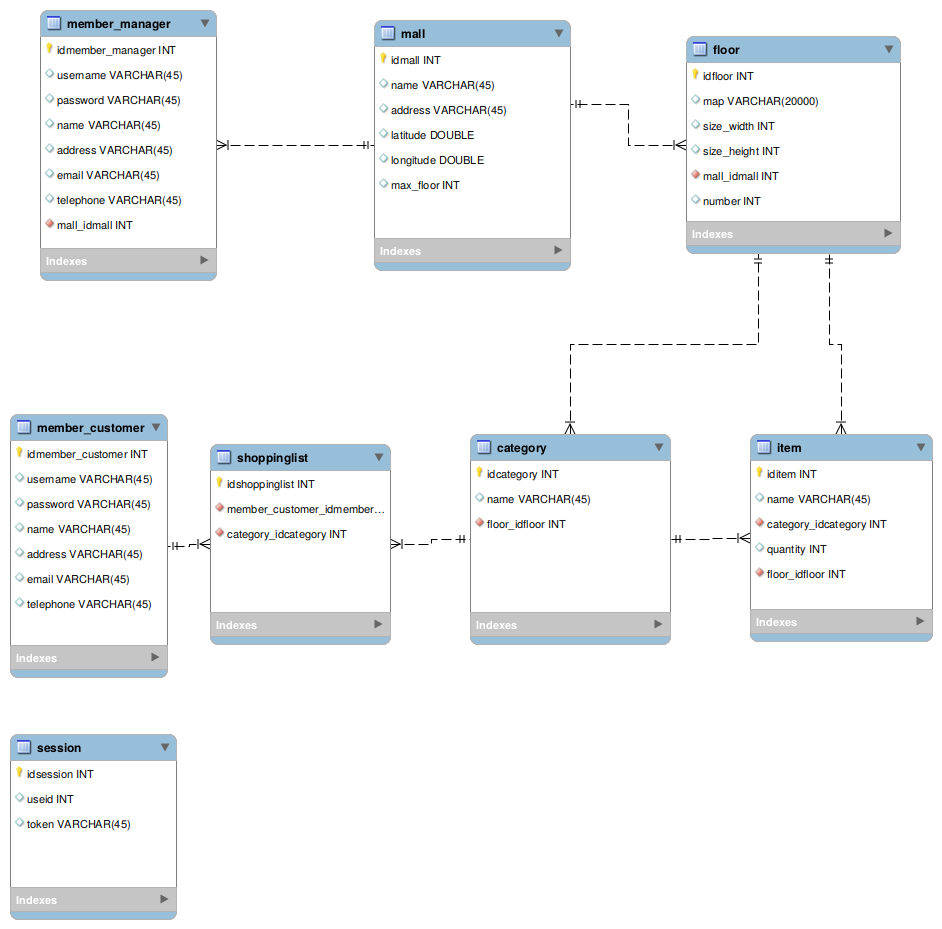
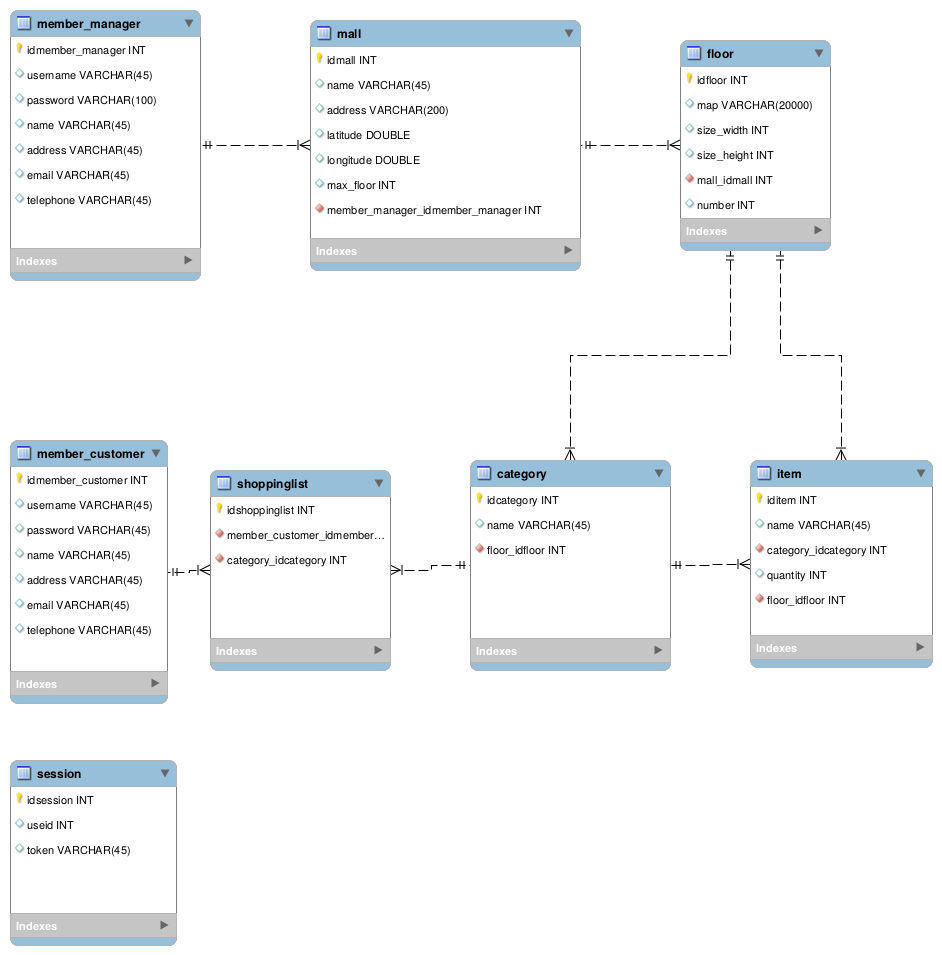
db 수정: mall과 member_manager 관계 수정

diff --git a/Project/Service_mockup/capstone-web/src/pages/uploadItems.js b/Project/Service_mockup/capstone-web/src/pages/uploadItems.js
@@ -1,0 +1,25 @@
+// csv로 된 상품 정보를 업로드하는 페이지
+// parse하고 그 결과를 db에 insert한다.
+
+import React from 'react'
+import Papa from 'papaparse'
+import CSVReader from 'react-csv-reader'
+import SEO from '../components/seo'
+
+const test1 = () => (
+  <>
+    <SEO title="Page two" />
+    <h1>Upload items</h1>
+    <p>This page is for uploading items by uploading a csv file.</p>
+    {/* <CSVReader
+        cssClass="csv-reader-input"
+        label="Select CSV with secret Death Star statistics"
+        onFileLoaded={this.handleForce}
+        onError={this.handleDarkSideForce}
+        inputId="ObiWan"
+        inputStyle={{color: 'red'}}
+      /> */}
+  </>
+)
+
+export default test1;

diff --git a/Project/Service_mockup/capstone-api/src/index.js b/Project/Service_mockup/capstone-api/src/index.js
@@ -62,6 +62,7 @@ async function getItemsByMall(id){
 // ex. http://localhost:3000/item_quantity?id=1
 app.get('/item_quantity', async (req, res) => {
     console.log({'/item_quantity': req.body});
+    console.log({'/item_quantity': req.query});
     try {
         const result = await getItemsByMall(req.query.id);
         console.log(result);
